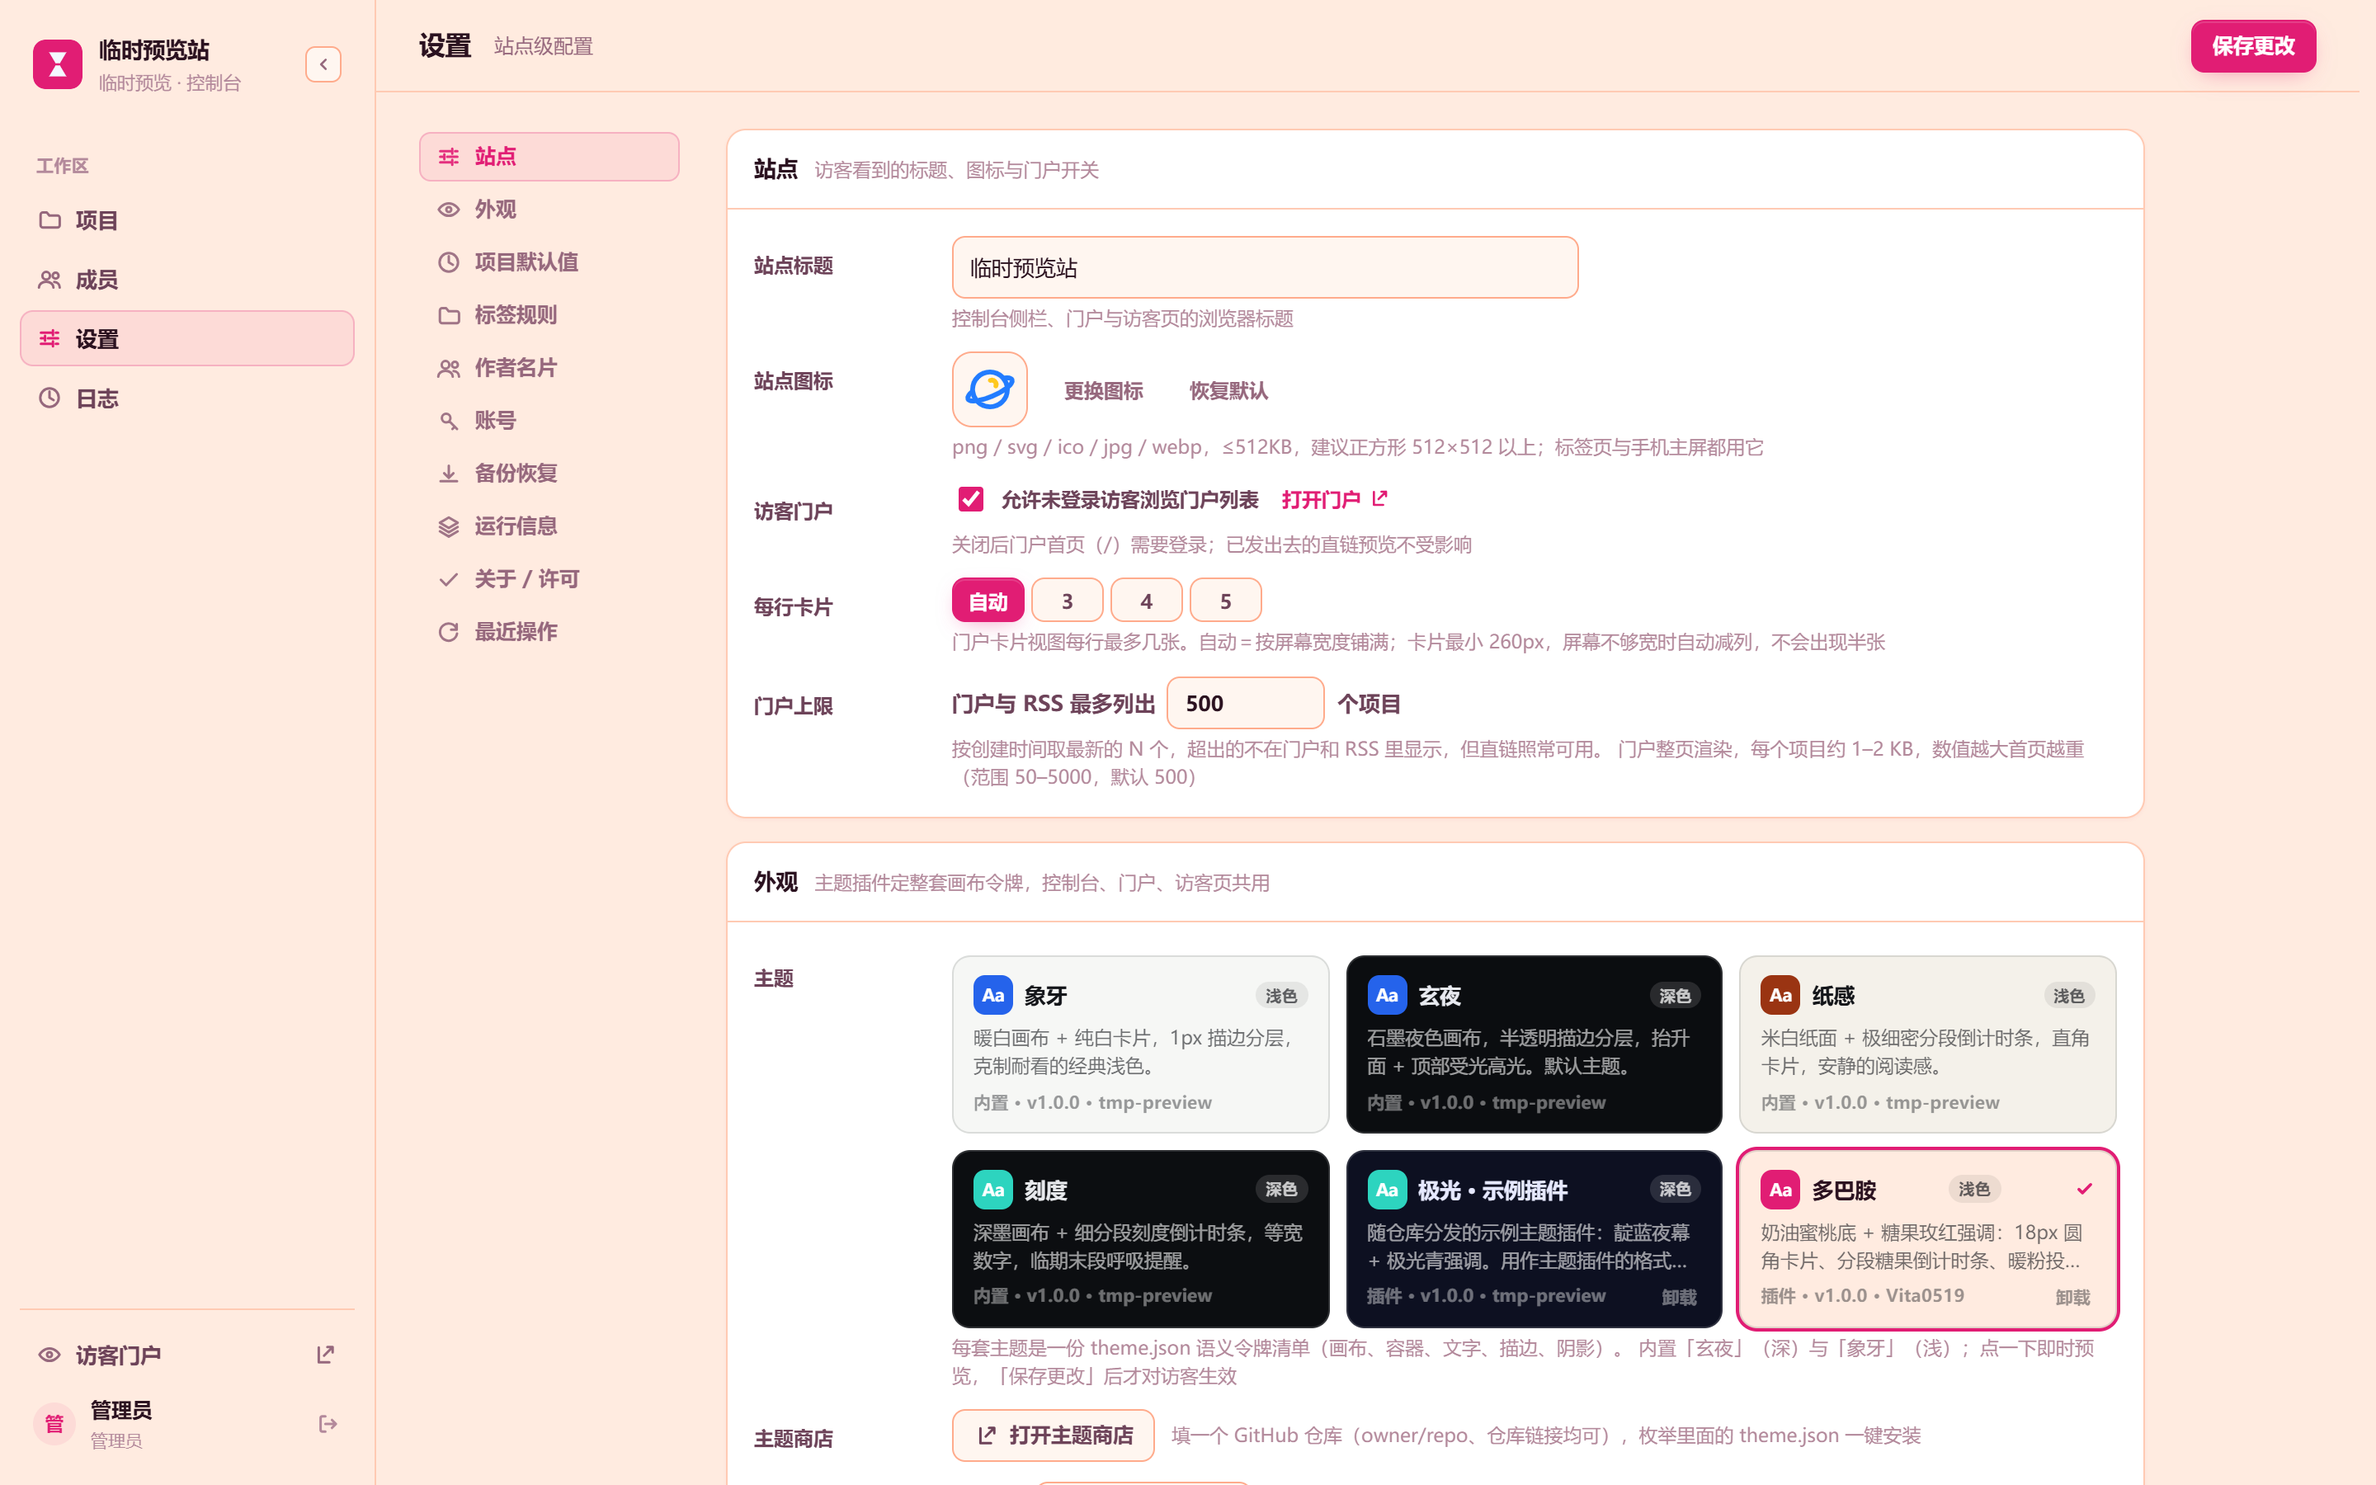
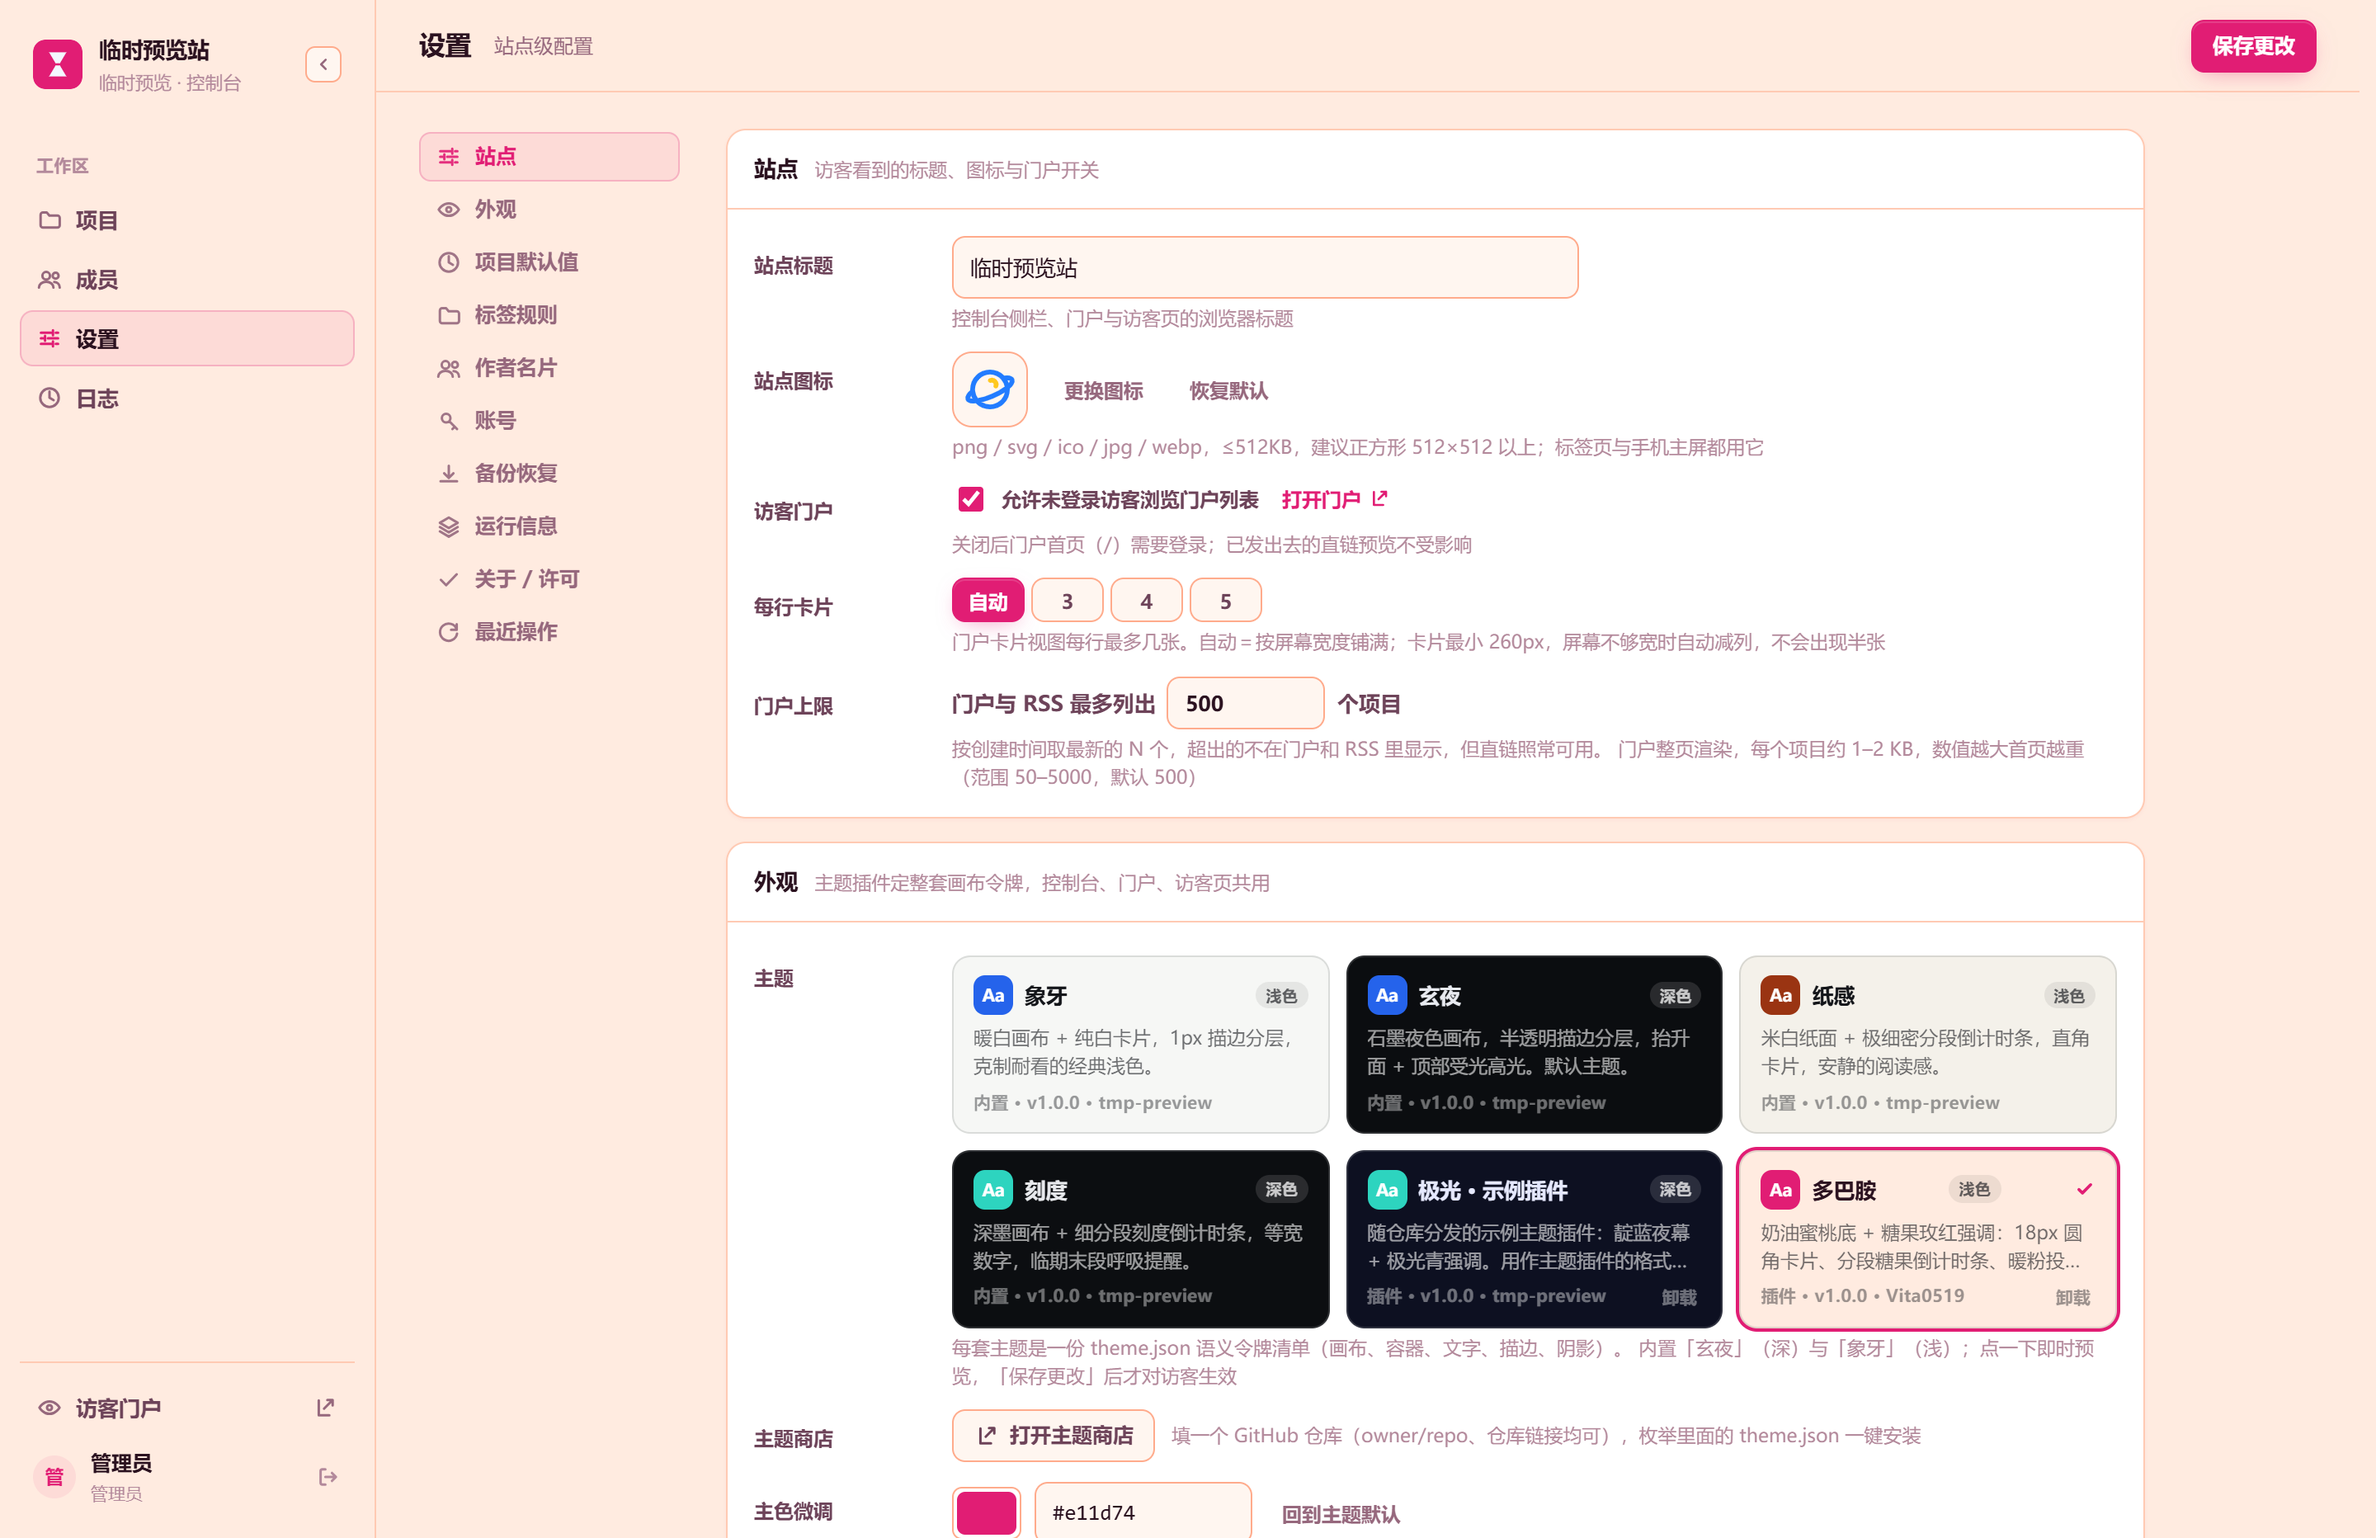
docs(website): 官网截图同步 v2.9.1，四张图统一 1440×932
- website/assets/img 覆盖 console / project-detail / settings / portal
- 全部统一 932 高（2880×1864 @2x），官网「界面」区两列图现在严格等高对齐
- 设置页文案改准：原「主题系列、站点图标、默认时长、上传上限」在新界面首屏已看不到，
  改成「站点信息、访客门户开关、主题与主色」（中英双语同步）

diff --git a/website/assets/app.js b/website/assets/app.js
@@ -27,7 +27,7 @@
 
     'screens.title': 'Screens',
     'screens.c1': 'Project detail: visibility, expiry, file list, destructive actions',
-    'screens.c2': 'Settings: color series, site icon, default lifetimes, upload limit',
+    'screens.c2': 'Settings: site info, portal toggles, themes and accent color',
     'screens.c3': 'Public portal: card wall, browsable by category and tags',
 
     'docker.title': 'Install · Docker Compose',

diff --git a/website/index.html b/website/index.html
@@ -148,7 +148,7 @@
         </figure>
         <figure class="shot">
           <img src="assets/img/settings.png" alt="设置">
-          <figcaption data-i18n="screens.c2">设置：主题系列、站点图标、默认时长、上传上限</figcaption>
+          <figcaption data-i18n="screens.c2">设置：站点信息、访客门户开关、主题与主色</figcaption>
         </figure>
       </div>
       <figure class="shot">
